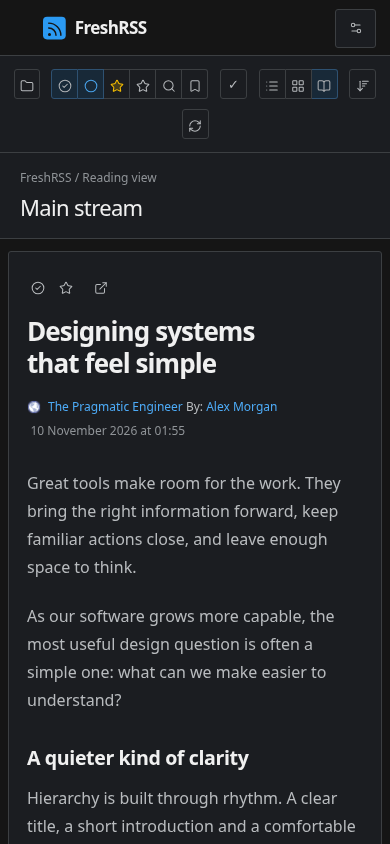
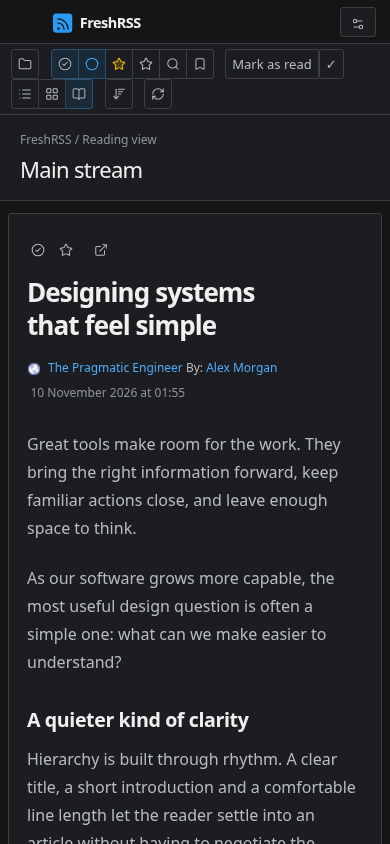
Align unread badges and compact Corvus navigation controls

diff --git a/p/themes/Corvus/corvus.css b/p/themes/Corvus/corvus.css
@@ -127,7 +127,7 @@ select:focus-visible, textarea:focus-visible, summary:focus-visible {
 /* Dark masthead and compact, permanently dark navigation. */
 .header {
 	background: var(--cv-bg);
-	height: 56px;
+	height: 44px;
 }
 
 .header > .item.title {
@@ -136,7 +136,7 @@ select:focus-visible, textarea:focus-visible, summary:focus-visible {
 }
 
 .header > .item.title .logo {
-	height: 26px;
+	height: 22px;
 	filter: grayscale(1) brightness(2);
 }
 
@@ -204,9 +204,10 @@ select:focus-visible, textarea:focus-visible, summary:focus-visible {
 }
 
 :root:root .nav_menu {
-	padding-block: 8px;
+	padding-block: 5px;
 	background: var(--cv-surface);
 	border-color: var(--cv-line);
+	text-align: start;
 }
 
 .nav_menu .btn, .nav_menu .stick, .nav_menu .group {
@@ -229,7 +230,16 @@ select:focus-visible, textarea:focus-visible, summary:focus-visible {
 }
 
 :root:root .nav_menu .btn {
+	margin: 0;
+	padding: 4px 9px;
+	display: inline-flex;
+	height: 30px;
 	color: var(--cv-muted);
+	min-height: 30px;
+	box-sizing: border-box;
+	align-items: center;
+	justify-content: center;
+	line-height: 20px;
 }
 
 .btn:hover, :root:root .nav_menu .btn:hover {
@@ -645,12 +655,70 @@ html:root .dropdown-menu {
 	min-width: 0;
 	flex: 1;
 	text-overflow: ellipsis;
+	white-space: normal;
+	text-align: start;
 }
 
 .aside .configure-feeds #btn-add {
 	flex: 0 0 auto;
+	padding: 6px;
+	display: flex;
+	width: 30px;
+	align-items: center;
+	justify-content: center;
 }
 
 .theme_Corvus .aside .btn-important .icon {
 	filter: none;
+}
+
+/* Centre every counter on its row instead of inheriting fixed top margins. */
+.aside.aside_feed .category .tree-folder-title .title:not([data-unread="0"])::after,
+.aside.aside_feed .feed .item-title:not([data-unread="0"])::after {
+	margin: 0;
+	padding: 0 6px;
+	display: flex;
+	min-width: 26px;
+	height: 18px;
+	font-size: 11px;
+	box-sizing: border-box;
+	align-items: center;
+	justify-content: center;
+	top: 50%;
+	right: 12px;
+	transform: translateY(-50%);
+	font-variant-numeric: tabular-nums;
+}
+
+/* Compact masthead and toolbar: common control height, no stacked margins. */
+.header > .item {
+	padding-block: 5px;
+}
+
+.header input,
+.header .btn {
+	padding: 4px 10px;
+	height: 30px;
+	box-sizing: border-box;
+	line-height: 20px;
+}
+
+.nav_menu .stick,
+.nav_menu .group {
+	margin-block: 0;
+	vertical-align: middle;
+}
+
+.aside .configure-feeds .btn {
+	padding: 6px 8px;
+	min-height: 30px;
+	font-size: 12px;
+	box-sizing: border-box;
+	line-height: 18px;
+}
+
+@media (max-width: 840px) {
+	:root:root .nav_menu .btn {
+		padding-inline: 6px;
+	}
 }

diff --git a/p/themes/Corvus/corvus.rtl.css b/p/themes/Corvus/corvus.rtl.css
@@ -127,7 +127,7 @@ select:focus-visible, textarea:focus-visible, summary:focus-visible {
 /* Dark masthead and compact, permanently dark navigation. */
 .header {
 	background: var(--cv-bg);
-	height: 56px;
+	height: 44px;
 }
 
 .header > .item.title {
@@ -136,7 +136,7 @@ select:focus-visible, textarea:focus-visible, summary:focus-visible {
 }
 
 .header > .item.title .logo {
-	height: 26px;
+	height: 22px;
 	filter: grayscale(1) brightness(2);
 }
 
@@ -204,9 +204,10 @@ select:focus-visible, textarea:focus-visible, summary:focus-visible {
 }
 
 :root:root .nav_menu {
-	padding-block: 8px;
+	padding-block: 5px;
 	background: var(--cv-surface);
 	border-color: var(--cv-line);
+	text-align: start;
 }
 
 .nav_menu .btn, .nav_menu .stick, .nav_menu .group {
@@ -229,7 +230,16 @@ select:focus-visible, textarea:focus-visible, summary:focus-visible {
 }
 
 :root:root .nav_menu .btn {
+	margin: 0;
+	padding: 4px 9px;
+	display: inline-flex;
+	height: 30px;
 	color: var(--cv-muted);
+	min-height: 30px;
+	box-sizing: border-box;
+	align-items: center;
+	justify-content: center;
+	line-height: 20px;
 }
 
 .btn:hover, :root:root .nav_menu .btn:hover {
@@ -645,12 +655,70 @@ html:root .dropdown-menu {
 	min-width: 0;
 	flex: 1;
 	text-overflow: ellipsis;
+	white-space: normal;
+	text-align: start;
 }
 
 .aside .configure-feeds #btn-add {
 	flex: 0 0 auto;
+	padding: 6px;
+	display: flex;
+	width: 30px;
+	align-items: center;
+	justify-content: center;
 }
 
 .theme_Corvus .aside .btn-important .icon {
 	filter: none;
+}
+
+/* Centre every counter on its row instead of inheriting fixed top margins. */
+.aside.aside_feed .category .tree-folder-title .title:not([data-unread="0"])::after,
+.aside.aside_feed .feed .item-title:not([data-unread="0"])::after {
+	margin: 0;
+	padding: 0 6px;
+	display: flex;
+	min-width: 26px;
+	height: 18px;
+	font-size: 11px;
+	box-sizing: border-box;
+	align-items: center;
+	justify-content: center;
+	top: 50%;
+	left: 12px;
+	transform: translateY(-50%);
+	font-variant-numeric: tabular-nums;
+}
+
+/* Compact masthead and toolbar: common control height, no stacked margins. */
+.header > .item {
+	padding-block: 5px;
+}
+
+.header input,
+.header .btn {
+	padding: 4px 10px;
+	height: 30px;
+	box-sizing: border-box;
+	line-height: 20px;
+}
+
+.nav_menu .stick,
+.nav_menu .group {
+	margin-block: 0;
+	vertical-align: middle;
+}
+
+.aside .configure-feeds .btn {
+	padding: 6px 8px;
+	min-height: 30px;
+	font-size: 12px;
+	box-sizing: border-box;
+	line-height: 18px;
+}
+
+@media (max-width: 840px) {
+	:root:root .nav_menu .btn {
+		padding-inline: 6px;
+	}
 }
